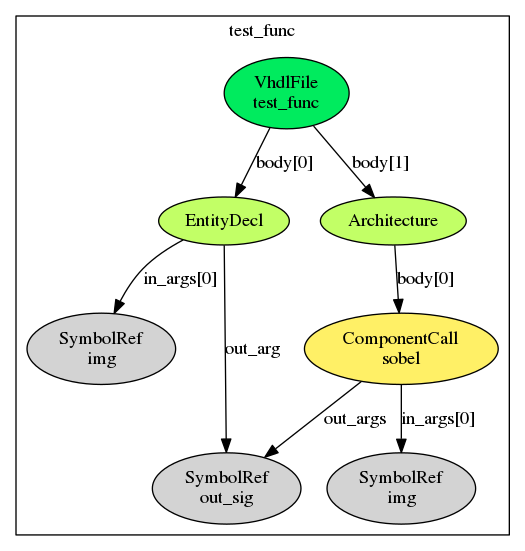
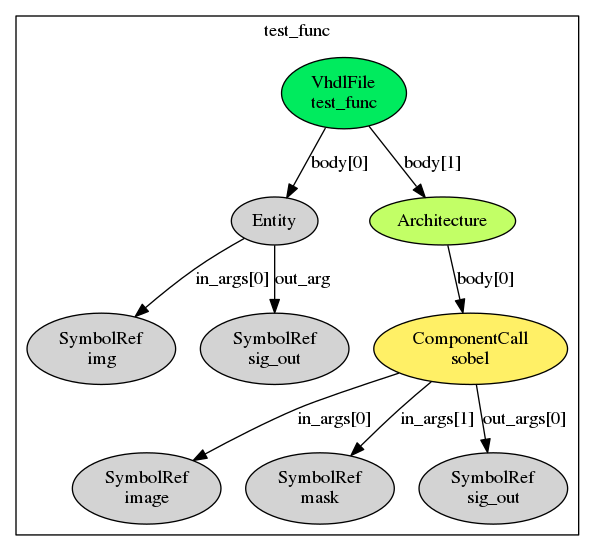
general updates

Changed region(s): [[0.0, 0.0309, 0.9752, 0.9873]]

diff --git a/sejits_example.py b/sejits_example.py
@@ -3,14 +3,48 @@
 import sejits_ctree
 from skimage.filters import scharr, prewitt, sobel
 # from skimage.filters import sobel_v, sobel_h, scharr_h, scharr_v
+from sejits_ctree.vhdl.scikit_image.transformations import VhdlKeywordTransformer
 from sejits_ctree.vhdl.scikit_image.transformations import VhdlBasicTransformer
+from sejits_ctree.vhdl.scikit_image.transformations import FuncResolver
+from sejits_ctree.vhdl.scikit_image.transformations import FuncSubstituter
 from sejits_ctree.vhdl.codegen import VhdlCodeGen
 # from sejits_ctree.transformations import PyBasicConversions
-
+from sejits_ctree.types import get_ctype
+from sejits_ctree.jit import LazySpecializedFunction
+from sejits_ctree.jit import ConcreteSpecializedFunction
 
 def test_func(img):
     """ return skimage.filters.sobel(img) """
-    return sobel(img)
+    out = sobel(img)
+    return out
+
+
+class BasicVhdlTrans(LazySpecializedFunction):
+
+    """ docstring dummy. """
+
+    def args_to_subconfig(self, args):
+        return {'arg_type': type(get_ctype(args[0]))}
+
+    def transform(self, tree, program_config):
+        vdhl_tree_proj = VhdlBasicTransformer().run(tree)
+        #
+        for idx, vhdl_file in enumerate(vdhl_tree_proj.files):
+            code = VhdlCodeGen().run(vhdl_file)
+            with open("test_code.vhdl", 'a') as f:
+                f.write(code)
+                f.write("\n" + "-" * 80 + "\n")
+            name = "test_graph_" + str(idx) + ".png"
+            sejits_ctree.browser_show_ast(tree, file_name=name)
+        #
+        return vdhl_tree_proj
+
+    def finalize(self, transform_result, program_config):
+        return BasicVhdlFunc()
+
+class BasicVhdlFunc(ConcreteSpecializedFunction):
+    pass
+
 
 """
 t1 = time.time()
@@ -24,11 +58,19 @@ code = VhdlCodeGen().run(tree)
 with open("test_code.vhdl", 'w') as f:
     f.write(code)
 """
-trees = VhdlBasicTransformer().run(sejits_ctree.get_ast(test_func))
+funcres_tree = FuncResolver().visit(sejits_ctree.get_ast(test_func))
+functrans_tree = FuncSubstituter().visit(funcres_tree)
+keytrans_tree = VhdlKeywordTransformer().visit(functrans_tree)
+trees = VhdlBasicTransformer().run(keytrans_tree)
 for idx, tree in enumerate(trees.files):
     code = VhdlCodeGen().run(tree)
-    with open("test_code.vhdl", 'a') as f:
-        f.write(code)
-        f.write("\n" + "-" * 80 + "\n")
+    if idx == 0:
+        with open("test_code.vhdl", 'w') as f:
+            f.write(code)
+            f.write("\n" + "-" * 80 + "\n")
+    else:
+        with open("test_code.vhdl", 'a') as f:
+            f.write(code)
+            f.write("\n" + "-" * 80 + "\n")
     name = "test_graph_" + str(idx) + ".png"
     sejits_ctree.browser_show_ast(tree, file_name=name)
